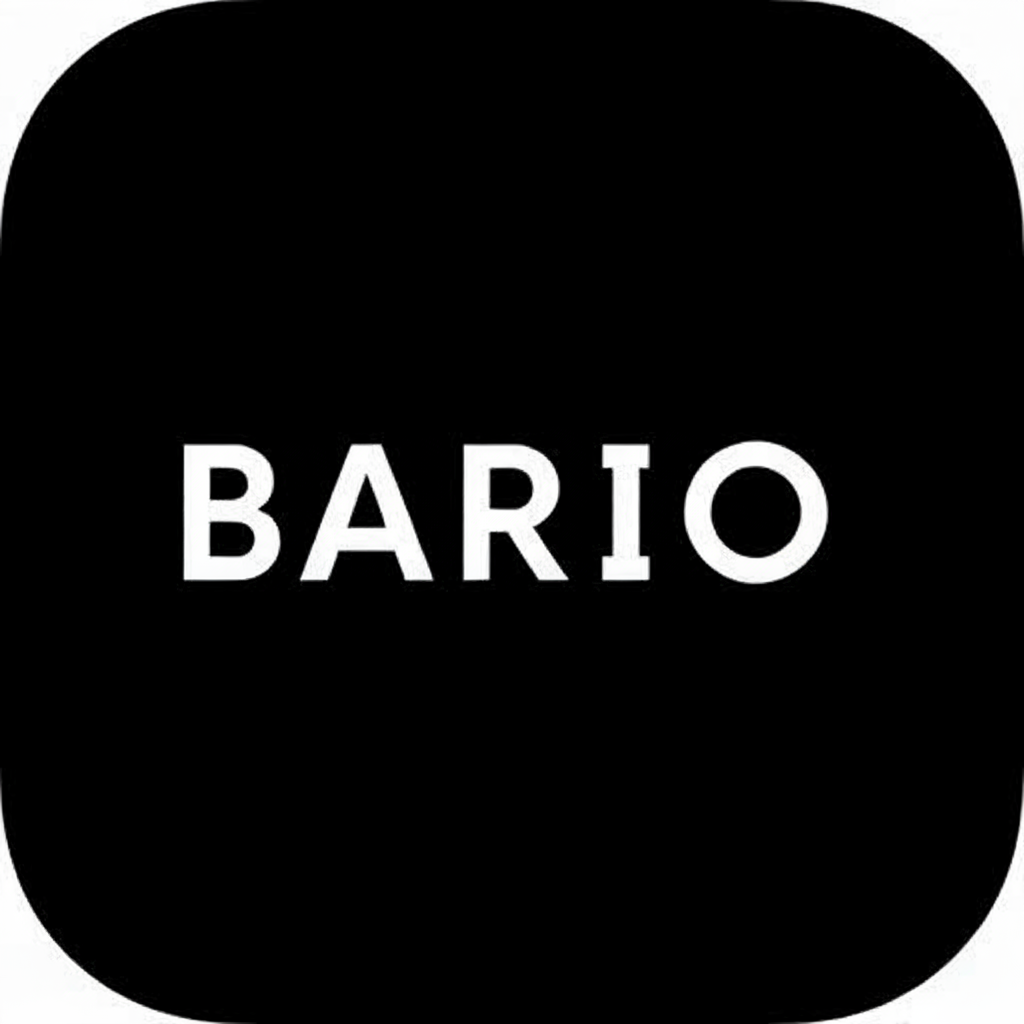
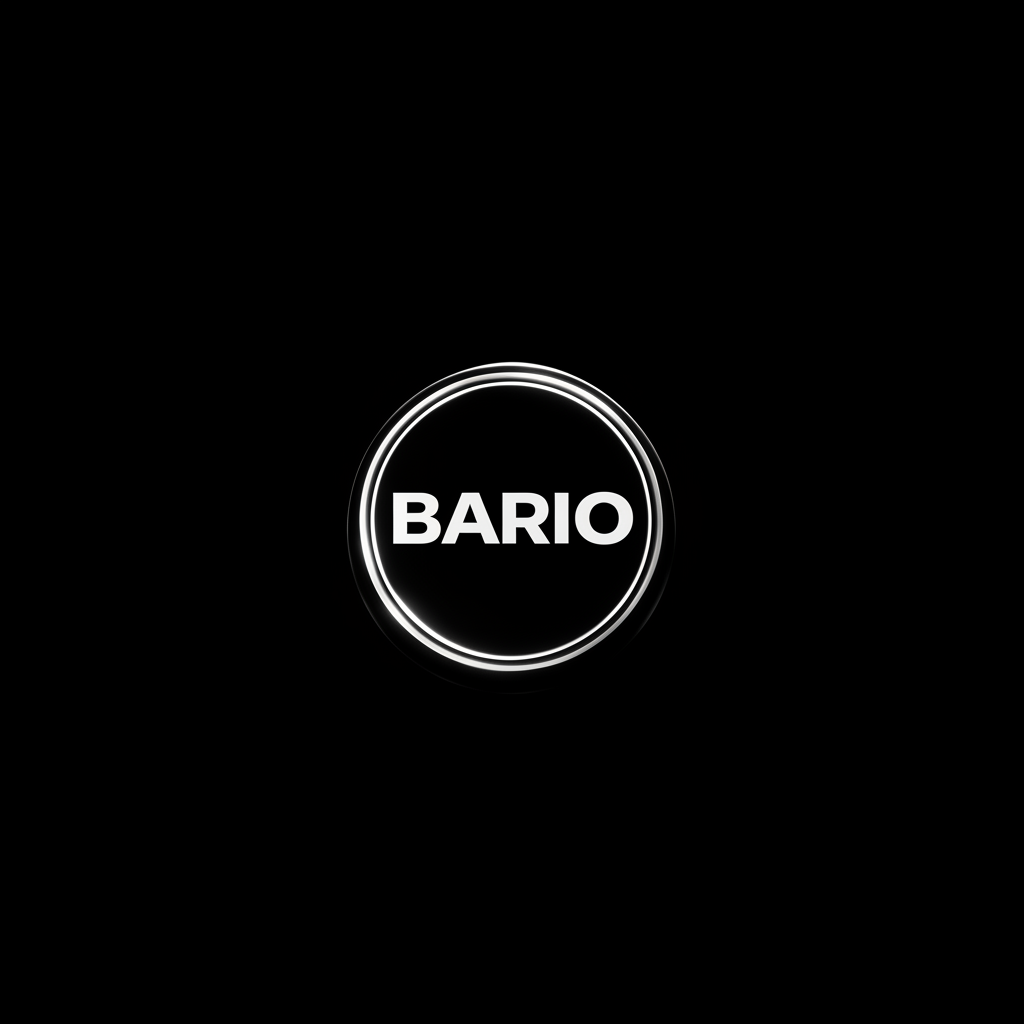
Changes

diff --git a/src/components/MobileBottomNav.tsx b/src/components/MobileBottomNav.tsx
@@ -1,13 +1,17 @@
+import { useState } from 'react';
 import { useLocation, useNavigate } from 'react-router-dom';
 import { Radio, Home, Plus, Globe } from 'lucide-react';
 import { useIsMobile } from '@/hooks/use-mobile';
 import { useAuth } from '@/contexts/AuthContext';
+import AuthPromptModal from '@/components/podcast/AuthPromptModal';
 
 const MobileBottomNav = () => {
   const isMobile = useIsMobile();
   const location = useLocation();
   const navigate = useNavigate();
   const { user } = useAuth();
+  const [showAuthPrompt, setShowAuthPrompt] = useState(false);
+  const [authAction, setAuthAction] = useState('');
 
   // Only show in PWA standalone mode, not regular mobile browser
   const isPWA = window.matchMedia('(display-mode: standalone)').matches
@@ -35,7 +39,8 @@ const MobileBottomNav = () => {
   const handleTap = (tab: typeof tabs[0]) => {
     if (tab.id === 'golive') {
       if (!user) {
-        navigate('/auth');
+        setAuthAction('go live');
+        setShowAuthPrompt(true);
       } else {
         navigate('/podcasts');
         setTimeout(() => {
@@ -44,41 +49,53 @@ const MobileBottomNav = () => {
       }
       return;
     }
+    if (!user && (tab.id === 'feed' || tab.id === 'heatmap')) {
+      setAuthAction(tab.id === 'feed' ? 'view the feed' : 'explore the heatmap');
+      setShowAuthPrompt(true);
+      return;
+    }
     if (tab.path) {
       navigate(tab.path);
     }
   };
 
   return (
-    <nav className="fixed bottom-0 left-0 right-0 z-[100] bg-black/95 backdrop-blur-md border-t border-white/10 pb-[env(safe-area-inset-bottom)]">
-      <div className="flex items-center justify-around h-14">
-        {tabs.map((tab) => {
-          const active = isActive(tab);
-          const isGoLive = tab.id === 'golive';
+    <>
+      <nav className="fixed bottom-0 left-0 right-0 z-[100] bg-black/95 backdrop-blur-md border-t border-white/10 pb-[env(safe-area-inset-bottom)]">
+        <div className="flex items-center justify-around h-14">
+          {tabs.map((tab) => {
+            const active = isActive(tab);
+            const isGoLive = tab.id === 'golive';
 
-          return (
-            <button
-              key={tab.id}
-              onClick={() => handleTap(tab)}
-              className={`flex flex-col items-center justify-center gap-0.5 flex-1 h-full transition-colors ${
-                isGoLive ? '' : active ? 'text-white' : 'text-white/40'
-              }`}
-            >
-              {isGoLive ? (
-                <div className="w-10 h-7 rounded-lg bg-gradient-to-r from-[#ff2d55] to-[#c237eb] flex items-center justify-center -mt-1">
-                  <Plus className="h-5 w-5 text-white" strokeWidth={3} />
-                </div>
-              ) : (
-                <tab.icon className={`h-5 w-5 ${active ? 'text-white' : ''}`} />
-              )}
-              <span className={`text-[10px] ${isGoLive ? 'text-white/70' : ''}`}>
-                {tab.label}
-              </span>
-            </button>
-          );
-        })}
-      </div>
-    </nav>
+            return (
+              <button
+                key={tab.id}
+                onClick={() => handleTap(tab)}
+                className={`flex flex-col items-center justify-center gap-0.5 flex-1 h-full transition-colors ${
+                  isGoLive ? '' : active ? 'text-white' : 'text-white/40'
+                }`}
+              >
+                {isGoLive ? (
+                  <div className="w-10 h-7 rounded-lg bg-gradient-to-r from-[#ff2d55] to-[#c237eb] flex items-center justify-center -mt-1">
+                    <Plus className="h-5 w-5 text-white" strokeWidth={3} />
+                  </div>
+                ) : (
+                  <tab.icon className={`h-5 w-5 ${active ? 'text-white' : ''}`} />
+                )}
+                <span className={`text-[10px] ${isGoLive ? 'text-white/70' : ''}`}>
+                  {tab.label}
+                </span>
+              </button>
+            );
+          })}
+        </div>
+      </nav>
+      <AuthPromptModal
+        isOpen={showAuthPrompt}
+        onClose={() => setShowAuthPrompt(false)}
+        action={authAction}
+      />
+    </>
   );
 };
 

diff --git a/src/components/podcast/DemoLiveSpace.tsx b/src/components/podcast/DemoLiveSpace.tsx
@@ -278,7 +278,7 @@ const DemoLiveSpace = ({ onLeave, sessionId }: DemoLiveSpaceProps) => {
   };
 
   return (
-    <div className="h-full flex flex-col bg-black relative overflow-hidden">
+    <div className="h-full flex flex-col bg-black relative">
       {/* Engagement Overlays */}
       <MysteryMusicDrop isDemo roomCategory={activeDemo.category} roomTitle={activeDemo.title} enabled={mysteryDropEnabled} isHost onSkip={() => {}} />
       <SpotlightRoulette isDemo />
@@ -288,12 +288,12 @@ const DemoLiveSpace = ({ onLeave, sessionId }: DemoLiveSpaceProps) => {
       <VibeCheck isDemo />
 
       {/* Session Header */}
-      <div className="px-4 pt-2 pb-2 sm:py-3 border-b border-white/5 bg-black">
-        <div className="flex items-start gap-2">
-          {/* Host avatar + name */}
+      <div className="px-4 pt-3 pb-2 sm:py-3 border-b border-white/5 bg-black shrink-0">
+        <div className="flex items-center gap-2">
+          {/* Host avatar */}
           <button
             onClick={() => navigate(`/host/${activeDemo.speakers[0]?.id}?from=${activeDemo.id}`)}
-            className="flex flex-col items-center shrink-0 hover:opacity-80 transition-opacity"
+            className="shrink-0 hover:opacity-80 transition-opacity"
           >
             <div className="w-6 h-6 rounded-full overflow-hidden">
               {activeDemo.speakers[0]?.avatarUrl ? (
@@ -302,21 +302,12 @@ const DemoLiveSpace = ({ onLeave, sessionId }: DemoLiveSpaceProps) => {
                 <div className={`w-full h-full bg-gradient-to-br ${activeDemo.speakers[0]?.avatarGradient}`} />
               )}
             </div>
-            <span className="text-[8px] text-white/60 font-medium mt-0.5 truncate max-w-[50px]">{activeDemo.hostName}</span>
           </button>
-
-          {/* Title + engagement row underneath */}
           <div className="flex-1 min-w-0">
-            <div className="flex items-center justify-between">
-              <h1 className="text-white font-semibold text-sm sm:text-base truncate">
-                {activeDemo.title}
-              </h1>
-              {/* Listener Count */}
-              <div className="flex items-center gap-1 text-white/60 shrink-0 ml-2">
-                <Users className="h-3.5 w-3.5" />
-                <span className="text-xs">{listenerCount}</span>
-              </div>
-            </div>
+            <p className="text-[10px] text-white/50">{activeDemo.hostName} · <Users className="inline h-3 w-3" /> {listenerCount}</p>
+          </div>
+        </div>
+        <p className="text-white font-bold text-sm mt-1.5">{activeDemo.title}</p>
 
             {/* Engagement, D1, Follow under title */}
             <div className="flex items-center gap-2 mt-1">
@@ -367,8 +358,6 @@ const DemoLiveSpace = ({ onLeave, sessionId }: DemoLiveSpaceProps) => {
                 {localFollowing ? 'Following' : 'Follow'}
               </button>
             </div>
-          </div>
-        </div>
       </div>
 
       {/* Speakers Area - Horizontal Row */}

diff --git a/src/components/SplashScreen.tsx b/src/components/SplashScreen.tsx
@@ -11,7 +11,7 @@ const SplashScreen = ({ onComplete }: SplashScreenProps) => {
   useEffect(() => {
     const timer = setTimeout(() => {
       setVisible(false);
-    }, 8500);
+    }, 5000);
     return () => clearTimeout(timer);
   }, []);
 
@@ -25,20 +25,6 @@ const SplashScreen = ({ onComplete }: SplashScreenProps) => {
           transition={{ duration: 0.6, ease: 'easeInOut' }}
           className="fixed inset-0 z-[9999] flex flex-col items-center justify-center bg-black overflow-hidden"
         >
-          {/* Video Background */}
-          <video
-            autoPlay
-            loop
-            muted
-            playsInline
-            className="absolute inset-0 w-full h-full object-cover opacity-30"
-          >
-            <source src="/splash-video.mp4" type="video/mp4" />
-          </video>
-
-          {/* Dark overlay */}
-          <div className="absolute inset-0 bg-black/50" />
-
           {/* Logo + Tagline */}
           <motion.div
             initial={{ opacity: 0, scale: 0.8 }}
@@ -49,7 +35,7 @@ const SplashScreen = ({ onComplete }: SplashScreenProps) => {
             <img
               src="/bario-logo.png"
               alt="Bario"
-              className="h-20 w-auto object-contain"
+              className="h-24 w-auto object-contain"
             />
             <motion.p
               initial={{ opacity: 0, y: 10 }}

diff --git a/src/pages/Podcasts.tsx b/src/pages/Podcasts.tsx
@@ -439,6 +439,18 @@ const Podcasts = () => {
               >
                 Bario Music
               </button>
+              <button
+                onClick={() => {
+                  if (user) {
+                    navigate('/dashboard');
+                  } else {
+                    navigate('/auth');
+                  }
+                }}
+                className="text-white/50 transition-colors hover:text-white ml-1"
+              >
+                <User className="h-4 w-4" />
+              </button>
             </div>
           </div>
         </header>
